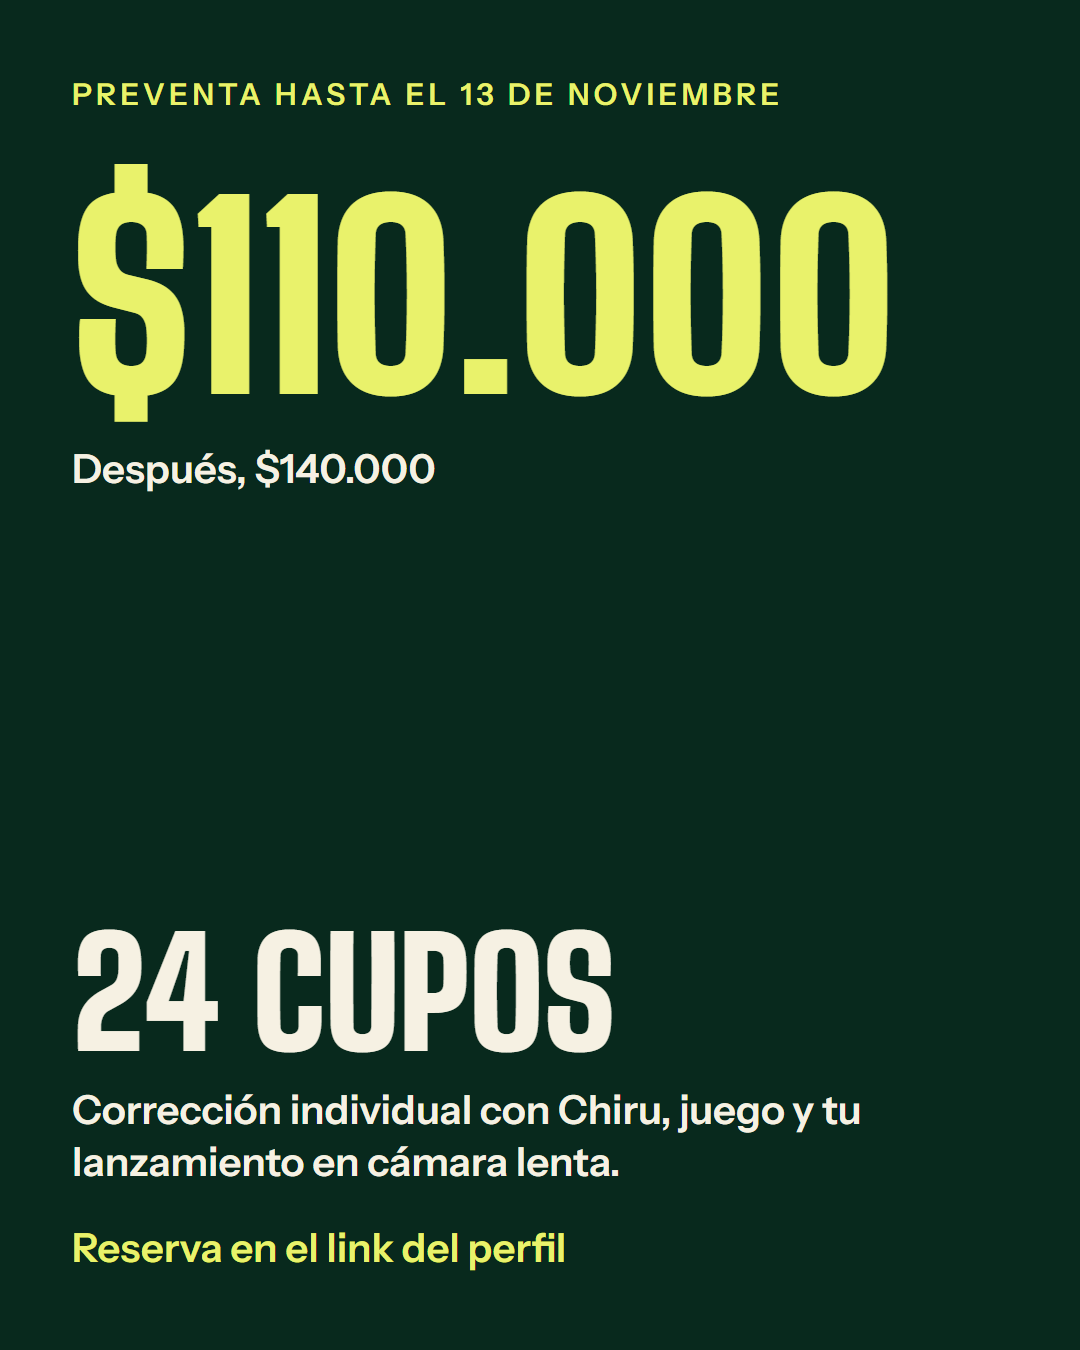
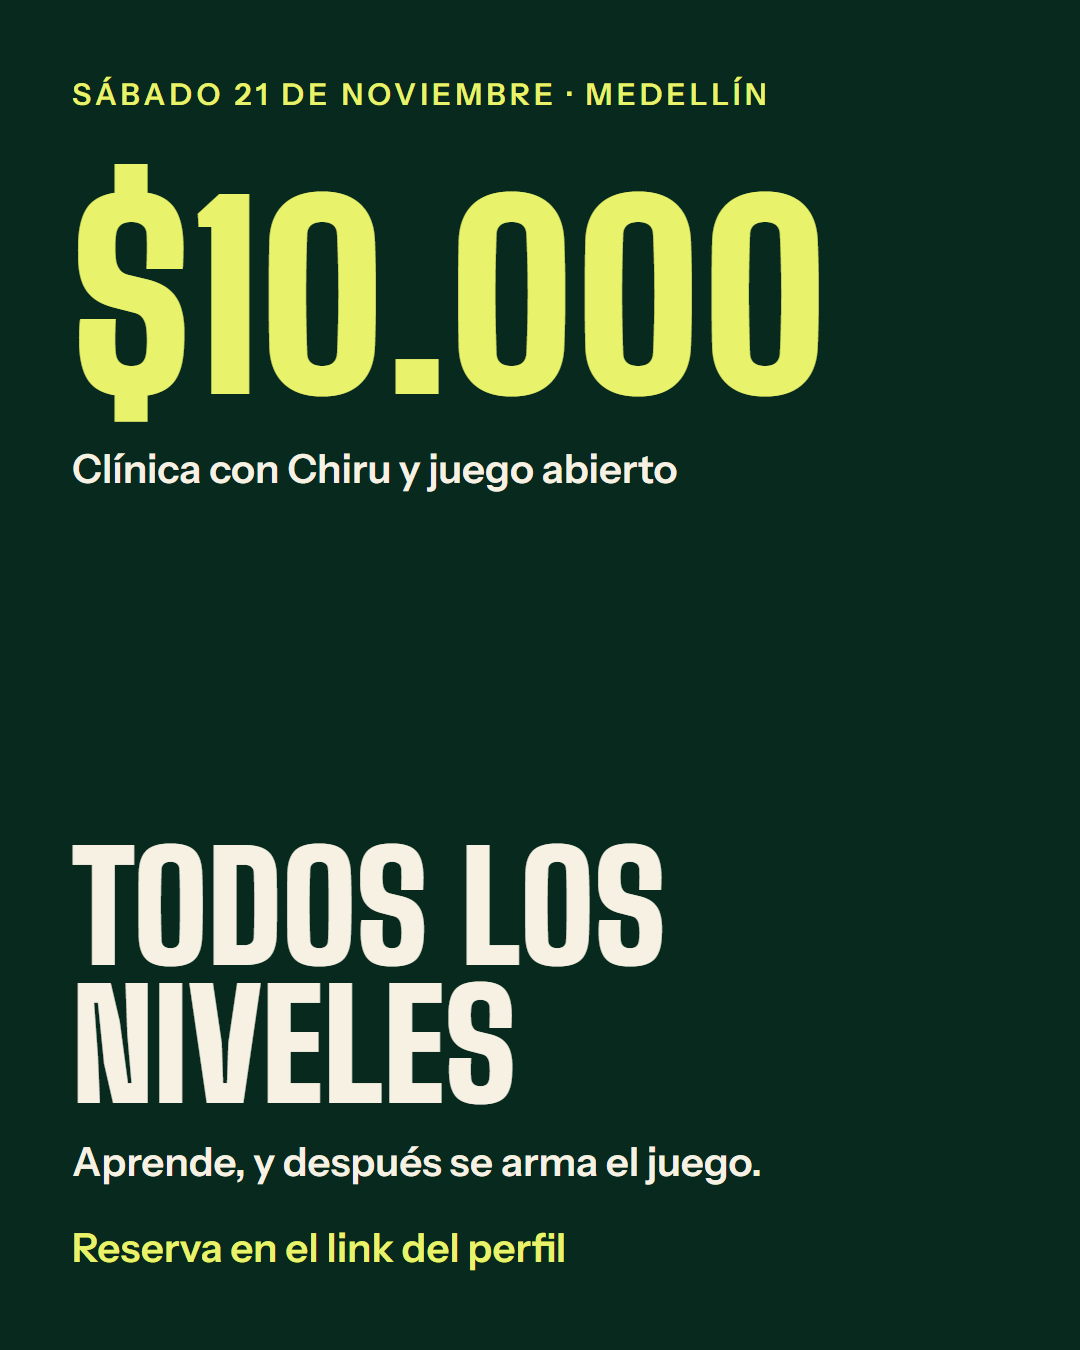
TACTO pasa a plan masivo de $10.000 con juego abierto
Precio unico, todos los niveles, hasta 60 personas y pauta de $100.000.
Se ajustan landing, piezas, mensajes, reels, pauta, estrategia y plan.

diff --git a/estrategia/index.html b/estrategia/index.html
@@ -65,12 +65,12 @@ footer li{margin-bottom:3px}
 <main>
 <section id="resumen"><div class="wrap">
   <h2>Lo que proponemos</h2>
-  <p>Son dos negocios y conviene separarlos. <b>C1</b> es la renta mensual: pocos clientes, alto valor, en la Sabana. <b>TACTO</b> es un evento rápido para la comunidad de ultimate, que además da prestigio, contenido y prueba del método.</p>
+  <p>Son dos negocios y conviene separarlos. <b>C1</b> es la renta mensual: pocos clientes, alto valor, en la Sabana. <b>TACTO</b> es un plan masivo y barato para la comunidad de ultimate: no busca utilidad, busca gente, contenido y prestigio.</p>
   <table>
     <tr><th>Frente</th><th>Meta</th><th>Motor principal</th></tr>
     <tr><td><b>Web C1</b></td><td>Valoración y membresía cobradas en línea</td><td>Links de suscripción de Mercado Pago</td></tr>
     <tr><td><b>Sabana</b></td><td>12 clientes y unos $15,4 M al mes en 90 días</td><td>Referidos de salud, Google local y Meta por zonas</td></tr>
-    <tr><td><b>Medellín</b></td><td>24 cupos el sábado 21 de noviembre</td><td>Capitanes de club y reels de Chiru, con pauta de apoyo</td></tr>
+    <tr><td><b>Medellín</b></td><td>60 personas el sábado 21 de noviembre, a $10.000</td><td>Capitanes de club y reels de Chiru, con pauta mínima</td></tr>
   </table>
   <div class="demos">
     <a href="../sitio/index.html"><b>Sitio C1</b><span>Inicio</span></a>
@@ -145,26 +145,26 @@ footer li{margin-bottom:3px}
   <p>Da Get Up tiene agenda abierta del 13 al 26 de noviembre. El <b>sábado 21</b> es la mejor fecha: deja 15 días de venta y evita el puente del 14 al 16. Medellín tiene comunidad fuerte, con clubes como Revolution y el Torneo Eterna Primavera.</p>
   <h3>La oferta</h3>
   <ul>
-    <li><b>Formato:</b> clínica de 8:30 a 11:00 y juego de 11:30 a 13:30. Video individual en cámara lenta incluido.</li>
-    <li><b>Precio:</b> preventa $110.000 hasta el 13 de noviembre, luego $140.000. Máximo 24 cupos para que Chiru corrija a cada persona.</li>
+    <li><b>Formato:</b> clínica en grupos por nivel de 8:30 a 10:00 y juego abierto de 10:30 a 13:00. Los capitanes ayudan en las estaciones.</li>
+    <li><b>Precio:</b> $10.000 para todos, sin preventa. Hasta 60 personas, de cualquier nivel.</li>
     <li><b>Idea extra:</b> cerrar esa noche con un set de Da Get Up. Clínica de día, pista de noche. Une tus dos comunidades, siempre que la agenda lo permita.</li>
   </ul>
   <h3>Cómo se llena</h3>
   <ol>
-    <li><b>Capitanes primero.</b> Tú y Chiru escriben a los capitanes y entrenadores de los clubes con un cupo de cortesía a cambio de mover su grupo. Con 4 clubes activos se puede llenar casi todo.</li>
+    <li><b>Capitanes primero.</b> Tú y Chiru escriben a los capitanes y entrenadores para que lleven a su club completo. Con 4 clubes activos se puede llenar casi todo.</li>
     <li><b>Tres reels de Chiru.</b> "Tu forehand no necesita más fuerza", un forehand imposible y la invitación directa.</li>
-    <li><b>Pauta de apoyo: $400.000.</b> Medellín y alrededores, interés en ultimate, y retargeting de quien vio los reels. Es una comunidad pequeña: más dinero no compra más jugadores.</li>
+    <li><b>Pauta mínima: $100.000.</b> Medellín y alrededores, interés en ultimate y deportes de equipo, y retargeting de quien vio los reels. A este precio, el voz a voz llena más que la pauta.</li>
     <li><b>Grupo de WhatsApp de inscritos.</b> Cada uno invita a un compañero de equipo.</li>
   </ol>
   <h3>Cuenta del evento</h3>
   <div class="scroll"><table>
     <tr><th>Concepto (estimado)</th><th class="n">Valor</th></tr>
-    <tr><td>Ingreso con 24 cupos, promedio $125.000</td><td class="n">$3.000.000</td></tr>
-    <tr><td>Cancha, tiquete de Chiru, hidratación, pauta y comisión</td><td class="n">−$1.600.000</td></tr>
-    <tr><td><b>Queda para repartir</b></td><td class="n"><b>$1.400.000</b></td></tr>
-    <tr><td>Punto de equilibrio</td><td class="n">13 cupos</td></tr>
+    <tr><td>Ingreso con 60 personas a $10.000</td><td class="n">$600.000</td></tr>
+    <tr><td>Cancha, tiquete de Chiru, pauta y comisión</td><td class="n">−$1.130.000</td></tr>
+    <tr><td><b>Faltante por cubrir</b></td><td class="n"><b>−$530.000</b></td></tr>
+    <tr><td>Punto de equilibrio</td><td class="n">Unas 115 personas</td></tr>
   </table></div>
-  <p>Costos por cotizar. No incluye hospedaje. Si el 13 de noviembre no hay al menos 8 cupos pagos, conviene replantear la fecha.</p>
+  <p>Costos por cotizar. No incluye hospedaje. A $10.000 el evento no se paga solo: el faltante baja si un club presta la cancha o si el viaje de Chiru se cubre con la agenda de Da Get Up. Si el 13 de noviembre hay menos de 20 inscritos, reforzamos con los capitanes.</p>
 </div></section>
 
 <section id="agenda"><div class="wrap">
@@ -172,8 +172,8 @@ footer li{margin-bottom:3px}
   <div class="scroll"><table>
     <tr><th>Cuándo</th><th>C1 Sabana</th><th>TACTO Medellín</th></tr>
     <tr><td><b>Hoy al 8 nov</b></td><td>Validar precios, recoger fotos, escribir a clientes actuales</td><td>Confirmar fecha, cancha y cuenta de cobro</td></tr>
-    <tr><td><b>9 al 13 nov</b></td><td>Links de pago, Perfil de Google, grabar 6 reels, iniciar Meta</td><td>Landing publicada, capitanes contactados, preventa y pauta</td></tr>
-    <tr><td><b>14 al 21 nov</b></td><td>Primeras valoraciones y visitas a fisioterapeutas</td><td>Precio general, último empujón y evento</td></tr>
+    <tr><td><b>9 al 13 nov</b></td><td>Links de pago, Perfil de Google, grabar 6 reels, iniciar Meta</td><td>Landing publicada, capitanes contactados e inscripciones abiertas</td></tr>
+    <tr><td><b>14 al 21 nov</b></td><td>Primeras valoraciones y visitas a fisioterapeutas</td><td>Último empujón y evento</td></tr>
     <tr><td><b>22 nov a dic</b></td><td>Migrar a WordPress y Google Ads, primera Mañana de movimiento</td><td>Publicar el aftermovie y abrir lista para Bogotá o Cali</td></tr>
     <tr><td><b>Enero y febrero</b></td><td>Enero es el mes de propósitos: máxima pauta y meta de 12 clientes</td><td>Curso de forehand en línea, si TACTO funciona</td></tr>
   </table></div>

diff --git a/medellin/index.html b/medellin/index.html
@@ -4,7 +4,7 @@
 <meta charset="utf-8">
 <meta name="viewport" content="width=device-width,initial-scale=1">
 <title>TACTO · Clínica de forehand con Chiru en Medellín</title>
-<meta name="description" content="Un día de ultimate en Medellín: clínica de forehand y juego con Julián Chiru Torres, Selección Colombia. Cupos limitados.">
+<meta name="description" content="Un día de ultimate en Medellín por $10.000: clínica de forehand con Julián Chiru Torres, Selección Colombia, y después juego abierto. Todos los niveles.">
 <meta name="robots" content="noindex">
 <link rel="preconnect" href="https://fonts.googleapis.com">
 <link rel="preconnect" href="https://fonts.gstatic.com" crossorigin>
@@ -116,7 +116,7 @@ footer a{color:var(--cal)}
     <p class="tag">Clínica de forehand + juego · Medellín</p>
     <h1>Tacto</h1>
     <p class="sub">El forehand no se fuerza. Se siente.</p>
-    <p class="meta"><span>Sábado 21 de noviembre</span><span>Con Julián Chiru Torres</span><span>24 cupos</span></p>
+    <p class="meta"><span>Sábado 21 de noviembre</span><span>Con Julián Chiru Torres</span><span>$10.000</span><span>Todos los niveles</span></p>
     <div class="acciones"><a class="btn" href="#reserva">Reservar mi cupo</a><a class="btn linea" href="#clinica">Qué vas a aprender</a></div>
   </div>
 </section>
@@ -161,10 +161,10 @@ footer a{color:var(--cal)}
     <h2>De la técnica al juego</h2>
     <ol class="dia">
       <li><time>8:00</time><div><h3>Llegada y activación</h3><p>Movilidad de hombro, muñeca y cadera para lanzar mejor.</p></div></li>
-      <li><time>8:30</time><div><h3>Clínica de forehand</h3><p>Trabajo por estaciones y corrección individual con Chiru.</p></div></li>
-      <li><time>11:00</time><div><h3>Pausa e hidratación</h3><p>Cada jugador recibe su lanzamiento grabado en cámara lenta.</p></div></li>
-      <li><time>11:30</time><div><h3>Juego</h3><p>Equipos mezclados. Chiru juega y corrige desde adentro.</p></div></li>
-      <li><time>13:30</time><div><h3>Cierre</h3><p>Foto de grupo y tu tarea para seguir mejorando.</p></div></li>
+      <li><time>8:30</time><div><h3>Clínica de forehand</h3><p>Trabajo en grupos por nivel, con Chiru pasando por cada estación.</p></div></li>
+      <li><time>10:00</time><div><h3>Pausa</h3><p>Agua, sombra y armar equipos.</p></div></li>
+      <li><time>10:30</time><div><h3>Se arma el juego</h3><p>Equipos mezclados y juego abierto. Chiru juega con todos.</p></div></li>
+      <li><time>13:00</time><div><h3>Cierre</h3><p>Foto de grupo y a seguir lanzando.</p></div></li>
     </ol>
   </div>
 </section>
@@ -185,12 +185,11 @@ footer a{color:var(--cal)}
 <section id="precio">
   <div class="wrap">
     <p class="tag">Precio</p>
-    <h2>Un solo día, 24 cupos</h2>
+    <h2>Un solo precio, con juego incluido</h2>
     <div class="precios">
-      <div class="precio on"><span>Preventa, hasta el 13 de noviembre</span><strong>$110.000</strong></div>
-      <div class="precio"><span>General, desde el 14 de noviembre</span><strong>$140.000</strong></div>
+      <div class="precio on"><span>Clínica + juego abierto</span><strong>$10.000</strong></div>
     </div>
-    <ul class="incluye"><li>Clínica y juego</li><li>Video de tu lanzamiento en cámara lenta</li><li>Hidratación y fruta</li></ul>
+    <ul class="incluye"><li>Clínica de forehand con Chiru</li><li>Juego abierto después de la clínica</li><li>Para todos los niveles, hasta 60 personas</li></ul>
   </div>
 </section>
 
@@ -206,7 +205,7 @@ footer a{color:var(--cal)}
       </div>
       <div class="g2">
         <div class="campo"><label for="club">Club o equipo</label><input id="club" placeholder="Si no tienes, déjalo vacío"></div>
-        <div class="campo"><label for="nivel">Tu nivel</label><select id="nivel"><option>Empiezo a lanzar</option><option>Juego liga o club</option><option>Compito a nivel nacional</option></select></div>
+        <div class="campo"><label for="nivel">Tu nivel</label><select id="nivel"><option>Nunca he lanzado</option><option>Empiezo a lanzar</option><option>Juego liga o club</option><option>Compito a nivel nacional</option></select></div>
       </div>
       <label class="check"><input type="checkbox" required><span>Autorizo el uso de mis datos para gestionar mi inscripción.</span></label>
       <button class="btn" type="submit">Continuar al pago</button>
@@ -219,7 +218,8 @@ footer a{color:var(--cal)}
     <p class="tag">Preguntas</p>
     <h2>Antes de ir</h2>
     <div style="margin-top:24px">
-      <details><summary>¿Necesito experiencia?</summary><p>Basta con saber lanzar un forehand básico. Las estaciones se ajustan a tu nivel.</p></details>
+      <details><summary>¿Necesito experiencia?</summary><p>No. Si nunca has lanzado, también puedes venir. Los grupos se arman por nivel.</p></details>
+      <details><summary>¿Puedo llevar a alguien?</summary><p>Sí, y mejor. Cada persona reserva su cupo.</p></details>
       <details><summary>¿Qué debo llevar?</summary><p>Ropa de juego, guayos, protector solar, agua y tu disco si tienes uno.</p></details>
       <details><summary>¿Dónde es?</summary><p>Enviamos la cancha confirmada a todos los inscritos por WhatsApp.</p></details>
       <details><summary>¿Y si llueve?</summary><p>Se juega. Con tormenta eléctrica movemos la fecha o devolvemos tu dinero.</p></details>

diff --git a/index.html b/index.html
@@ -28,11 +28,11 @@
 <main>
 <section id="pedidos"><div class="wrap">
   <h2>Lo que necesitamos de ustedes</h2>
-  <p class="suave">En orden de urgencia. La preventa de TACTO cierra el 13 de noviembre, así que los primeros mandan.</p>
+  <p class="suave">En orden de urgencia. TACTO abre inscripciones el lunes 9, así que los primeros mandan.</p>
   <ol class="pedidos">
     
-    <li><time>7 nov</time><div><b>Julián: validar precios de TACTO y de la membresía</b><small>Son propuesta de We Rock. Cualquier cambio se ajusta en minutos.</small></div></li>
-    <li><time>8 nov</time><div><b>David: conseguir cancha en Medellín</b><small>Para 24 personas, de 8:00 a. m. a 1:30 p. m., con su costo.</small></div></li>
+    <li><time>7 nov</time><div><b>Julián: validar precios de la membresía</b><small>Son propuesta de We Rock. Cualquier cambio se ajusta en minutos.</small></div></li>
+    <li><time>8 nov</time><div><b>David: conseguir cancha en Medellín</b><small>Para 60 personas, de 8:00 a. m. a 1:00 p. m., con espacio para dos canchas. Preguntar primero si un club la presta.</small></div></li>
     <li><time>8 nov</time><div><b>Julián: abrir Mercado Pago y dar el WhatsApp comercial</b><small>A su nombre. Sin esto no se puede cobrar ni encender pauta.</small></div></li>
     <li><time>8 nov</time><div><b>Julián: enviar fotos y videos que ya tenga</b><small>Lanzando, entrenando a alguien y un retrato. En calidad original, no capturas de Instagram.</small></div></li>
     <li><time>9 nov</time><div><b>Julián: confirmar datos profesionales</b><small>Título y universidad, papel en la Selección, atletas que se pueden nombrar.</small></div></li>
@@ -72,7 +72,7 @@
     <tr><td><b>Mar 10</b></td><td>Preparar cuentas de pauta</td><td>Cuenta publicitaria y Perfil de Google</td></tr>
     <tr><td><b>Mié 11</b></td><td>Encender Meta Sabana</td><td>Visitar a los primeros fisioterapeutas</td></tr>
     <tr><td><b>Jue 12</b></td><td>Editar reels</td><td>Jornada de grabación</td></tr>
-    <tr><td><b>Vie 13</b></td><td>Revisar cupos pagos</td><td>Cierre de preventa. Si hay menos de 8 cupos, replantear fecha.</td></tr>
+    <tr><td><b>Vie 13</b></td><td>Revisar inscritos</td><td>Con menos de 20 inscritos, reforzar con capitanes.</td></tr>
   </table></div>
 </div></section>
 </main>

diff --git a/kit/pauta.html b/kit/pauta.html
@@ -24,7 +24,7 @@
     <tr><th>Campaña</th><th>Periodo</th><th>Diario</th><th>Total</th></tr>
     <tr><td>Meta Sabana</td><td>Mensual</td><td>$36.000</td><td>$1.100.000 al mes</td></tr>
     <tr><td>Google Sabana</td><td>Mensual, desde el 22 de noviembre</td><td>$23.000</td><td>$700.000 al mes</td></tr>
-    <tr><td>Meta TACTO</td><td>9 al 20 de noviembre</td><td>$33.000</td><td>$400.000</td></tr>
+    <tr><td>Meta TACTO</td><td>9 al 20 de noviembre</td><td>$8.500</td><td>$100.000</td></tr>
   </table></div>
   <p class="suave">Cifras propuestas, por aprobar. Google arranca después, cuando el sitio esté en su dominio y cobre de verdad.</p>
 </div></section>
@@ -71,16 +71,16 @@ Entrenamiento consciente: entiendes por qué haces cada movimiento y ganas auton
     <tr><th>Objetivo</th><td>Tráfico a la landing, o ventas cuando el píxel esté activo</td></tr>
     <tr><th>Ubicación</th><td>Medellín y Valle de Aburrá, 25 km</td></tr>
     <tr><th>Edad</th><td>18 a 45 años</td></tr>
-    <tr><th>Público</th><td>Interés en ultimate y deportes de disco. Si Meta lo marca como muy pequeño, se amplía a deportes de equipo.</td></tr>
+    <tr><th>Público</th><td>Interés en ultimate, deportes de disco y deportes de equipo. Es un plan para cualquiera que quiera probar.</td></tr>
     <tr><th>Refuerzo</th><td>Desde el 13 de noviembre, quienes vieron los reels o visitaron la landing</td></tr>
     <tr><th>Anuncios</th><td>Reels 4, 5 y 6</td></tr>
   </table></div>
   <h3>Texto del anuncio</h3>
   <div class="msg"><pre>El forehand no se fuerza. Se siente.
 
-Un día de ultimate con Chiru, de la Selección Colombia. Clínica de forehand, corrección individual y juego.
+Un día de ultimate con Chiru, de la Selección Colombia. Clínica de forehand y después se arma el juego.
 
-Sábado 21 de noviembre, Medellín. Solo 24 cupos.</pre></div>
+Sábado 21 de noviembre, Medellín. $10.000, todos los niveles.</pre></div>
   <p><b>Título:</b> TACTO: clínica de forehand · <b>Botón:</b> Más información</p>
 </div></section>
 

diff --git a/kit/piezas.html b/kit/piezas.html
@@ -27,20 +27,20 @@
 </div></header>
 <main>
 <section id="carrusel"><div class="wrap">
-  <div class="nota">Publicar solo cuando el link de pago esté activo. Los precios siguen pendientes de validar.</div>
+  <div class="nota">Publicar solo cuando la cancha y el link de pago estén listos.</div>
   <h2>Carrusel</h2>
   <p class="suave">Formato 4:5, para publicar en colaboración desde @chirulo1 y las cuentas de los clubes.</p>
   <div class="galeria">
     <figure><img src="tacto/tacto-carrusel-1.png" alt="Portada: TACTO, el forehand no se fuerza, se siente" width="1080" height="1350"><a href="tacto/tacto-carrusel-1.png" download>Descargar 1</a></figure>
     <figure><img src="tacto/tacto-carrusel-2.png" alt="Agarre, muñeca, ángulo y presión" width="1080" height="1350"><a href="tacto/tacto-carrusel-2.png" download>Descargar 2</a></figure>
-    <figure><img src="tacto/tacto-carrusel-3.png" alt="Preventa de 110.000 pesos hasta el 13 de noviembre, 24 cupos" width="1080" height="1350"><a href="tacto/tacto-carrusel-3.png" download>Descargar 3</a></figure>
+    <figure><img src="tacto/tacto-carrusel-3.png" alt="10.000 pesos, clínica con Chiru y juego abierto, todos los niveles" width="1080" height="1350"><a href="tacto/tacto-carrusel-3.png" download>Descargar 3</a></figure>
   </div>
   <h3>Texto de la publicación</h3>
   <div class="msg"><pre>El forehand no se fuerza. Se siente.
 
-El sábado 21 de noviembre estoy en Medellín con TACTO: clínica de forehand, corrección individual y juego. Te llevas tu lanzamiento grabado en cámara lenta.
+El sábado 21 de noviembre estoy en Medellín con TACTO: clínica de forehand y después se arma el juego.
 
-Solo 24 cupos. Preventa hasta el 13 de noviembre.
+$10.000. Todos los niveles, incluso si nunca has lanzado.
 Reserva en el link del perfil.
 
 #ultimate #ultimatefrisbee #medellin</pre><button class="copiar">Copiar</button></div>

diff --git a/kit/reels.html b/kit/reels.html
@@ -90,7 +90,7 @@
       <tr><td>19–25</td><td>El disco llega a la mano del compañero.</td><td>TACTO · Medellín · 21 de noviembre</td><td>Esto lo trabajamos en Medellín. El link está en mi perfil.</td></tr>
     </table></div>
     <p><b>Otros ganchos:</b> "El error que más corrijo" · "Suelta el disco así y mira" · "Deja de lanzar con el brazo".</p>
-    <p><b>Texto de la publicación:</b> El forehand no se fuerza. Se siente. Clínica y juego en Medellín, 24 cupos.</p>
+    <p><b>Texto de la publicación:</b> El forehand no se fuerza. Se siente. Clínica y juego en Medellín por $10.000, todos los niveles.</p>
   </article>
 
   <article class="guion">
@@ -111,8 +111,8 @@
     <div class="scroll"><table>
       <tr><th>Tiempo</th><th>Imagen</th><th>Texto en pantalla</th><th>Hablan</th></tr>
       <tr><td>0–3</td><td>David lanza un disco a cámara. Chiru lo atrapa.</td><td>Medellín, esto es para ti</td><td>David: Medellín, les traje a Chiru.</td></tr>
-      <tr><td>3–11</td><td>Chiru frente a cámara, con la cancha detrás.</td><td>Clínica + juego · 24 cupos</td><td>Chiru: El 21 de noviembre trabajamos tu forehand y después jugamos.</td></tr>
-      <tr><td>11–15</td><td>Los dos lanzan al mismo tiempo.</td><td>Preventa hasta el 13 de noviembre</td><td>Chiru: Reserva en el link del perfil.</td></tr>
+      <tr><td>3–11</td><td>Chiru frente a cámara, con la cancha detrás.</td><td>Clínica + juego · $10.000</td><td>Chiru: El 21 de noviembre trabajamos tu forehand y después jugamos.</td></tr>
+      <tr><td>11–15</td><td>Los dos lanzan al mismo tiempo.</td><td>Todos los niveles</td><td>Chiru: Reserva en el link del perfil.</td></tr>
     </table></div>
     <p class="suave">Si graban por separado, se cambia la apertura por un video de David desde Medellín.</p>
   </article>

diff --git a/kit/mensajes.html b/kit/mensajes.html
@@ -77,19 +77,18 @@ Quiero proponerle una actividad gratuita para los residentes: una "Mañana de mo
 
   <h3>5. A capitanes y entrenadores de club</h3>
   <p class="suave">Lo envía Chiru. David escribe a los que conoce mejor.</p>
-  <div class="msg"><pre>¡Hola [nombre]! Voy para Medellín el sábado 21 de noviembre a dictar TACTO, una clínica de forehand con juego. Son solo 24 cupos.
+  <div class="msg"><pre>¡Hola [nombre]! Voy para Medellín el sábado 21 de noviembre a dictar TACTO, una clínica de forehand y después juego abierto. Vale $10.000 y es para todos los niveles.
 
-Quiero que venga gente de [club]. Te guardo un cupo de cortesía si me ayudas a moverlo con tu equipo. La preventa va hasta el 13 de noviembre.
+Quiero que venga todo [club], también los que están empezando. ¿Me ayudas a moverlo con tu equipo?
 
 Aquí está toda la info: [link]
 
 ¿Le entras?</pre><button class="copiar">Copiar</button></div>
 
   <h3>6. Para grupos de WhatsApp de ultimate</h3>
-  <div class="msg"><pre>Medellín: el sábado 21 de noviembre, Chiru (Selección Colombia) dicta TACTO, una clínica de forehand con juego.
+  <div class="msg"><pre>Medellín: el sábado 21 de noviembre, Chiru (Selección Colombia) dicta TACTO, una clínica de forehand. Después se arma el juego.
 
-Corrección individual y tu lanzamiento en cámara lenta. Solo 24 cupos.
-Preventa: $110.000 hasta el 13 de noviembre.
+$10.000. Todos los niveles, incluso si nunca has lanzado.
 
 Reserva aquí: [link]</pre><button class="copiar">Copiar</button></div>
 

diff --git a/kit/tacto/pieza.html b/kit/tacto/pieza.html
@@ -59,12 +59,12 @@ svg.v{position:absolute;inset:0;width:100%;height:100%}
 
 <!-- 3 · Oferta -->
 <div class="p noche" id="p3">
-  <p class="tag">Preventa hasta el 13 de noviembre</p>
-  <p class="precio" style="margin-top:60px">$110.000</p>
-  <p class="t" style="margin-top:20px">Después, $140.000</p>
+  <p class="tag">Sábado 21 de noviembre · Medellín</p>
+  <p class="precio" style="margin-top:60px">$10.000</p>
+  <p class="t" style="margin-top:20px">Clínica con Chiru y juego abierto</p>
   <div class="abajo">
-    <p class="d l">24 cupos</p>
-    <p class="t" style="margin-top:22px">Corrección individual con Chiru, juego y tu lanzamiento en cámara lenta.</p>
+    <p class="d l">Todos los niveles</p>
+    <p class="t" style="margin-top:22px">Aprende, y después se arma el juego.</p>
     <p class="t" style="margin-top:34px;color:var(--limon)">Reserva en el link del perfil</p>
   </div>
 </div>
@@ -76,7 +76,7 @@ svg.v{position:absolute;inset:0;width:100%;height:100%}
   <h1 class="c d xl" style="margin-top:22px">Tacto</h1>
   <div class="c abajo">
     <p class="d m">Un día de forehand<br>y juego con Chiru</p>
-    <p class="t" style="margin-top:26px">Solo 24 cupos. Preventa hasta el 13.</p>
+    <p class="t" style="margin-top:26px">$10.000. Todos los niveles.</p>
   </div>
 </div>
 

diff --git a/TEXTOS.md b/TEXTOS.md
@@ -5,10 +5,10 @@
 - Leído en Instagram sin sesión: "Ser uno con tu movimiento", beneficios de C1, títulos de destacados, número de seguidores. Bios recortadas.
 
 ## Propuesto por We Rock, sin validar
-- Todos los precios de planes, valoración ($180.000) y TACTO ($110.000 / $140.000).
+- Todos los precios de planes y valoración ($180.000). TACTO queda en $10.000, definido por David.
 - Contenido de cada plan y reglas: sin permanencia, reprogramar con 24 horas.
 - Las cuatro etapas del método: Valorar, Diseñar, Entrenar, Soltar.
-- Nombre TACTO, horarios, 24 cupos, video en cámara lenta, política de lluvia y devolución.
+- Nombre TACTO, horarios, 60 cupos, política de lluvia y devolución.
 - Metas y supuestos: 12 clientes, $15,4 M, costos de TACTO, conversiones de pauta.
 - Texto "lleva el material necesario" y "coordina con tu médico".
 
